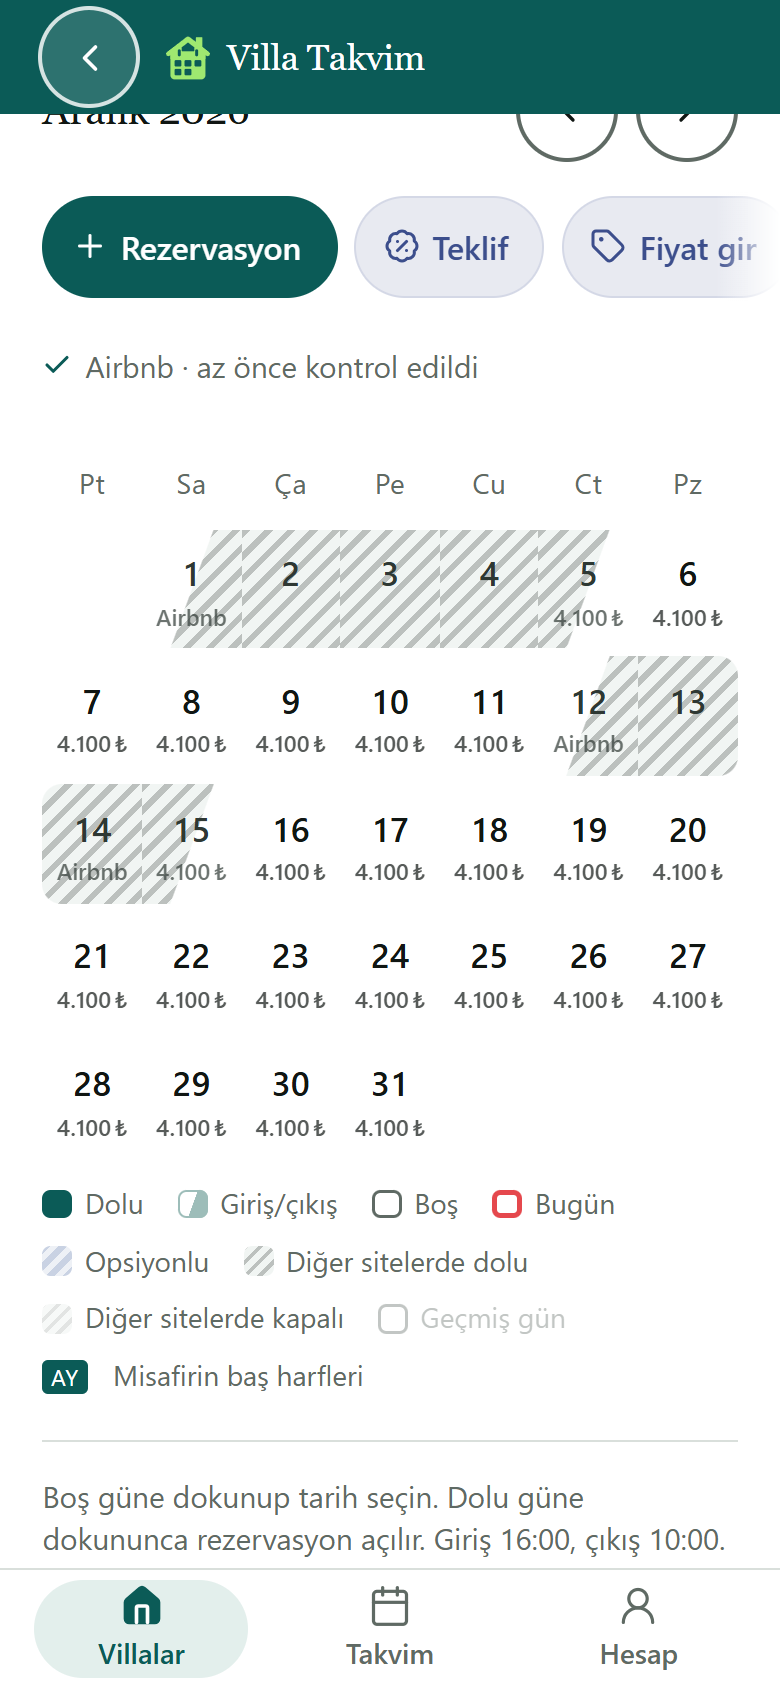
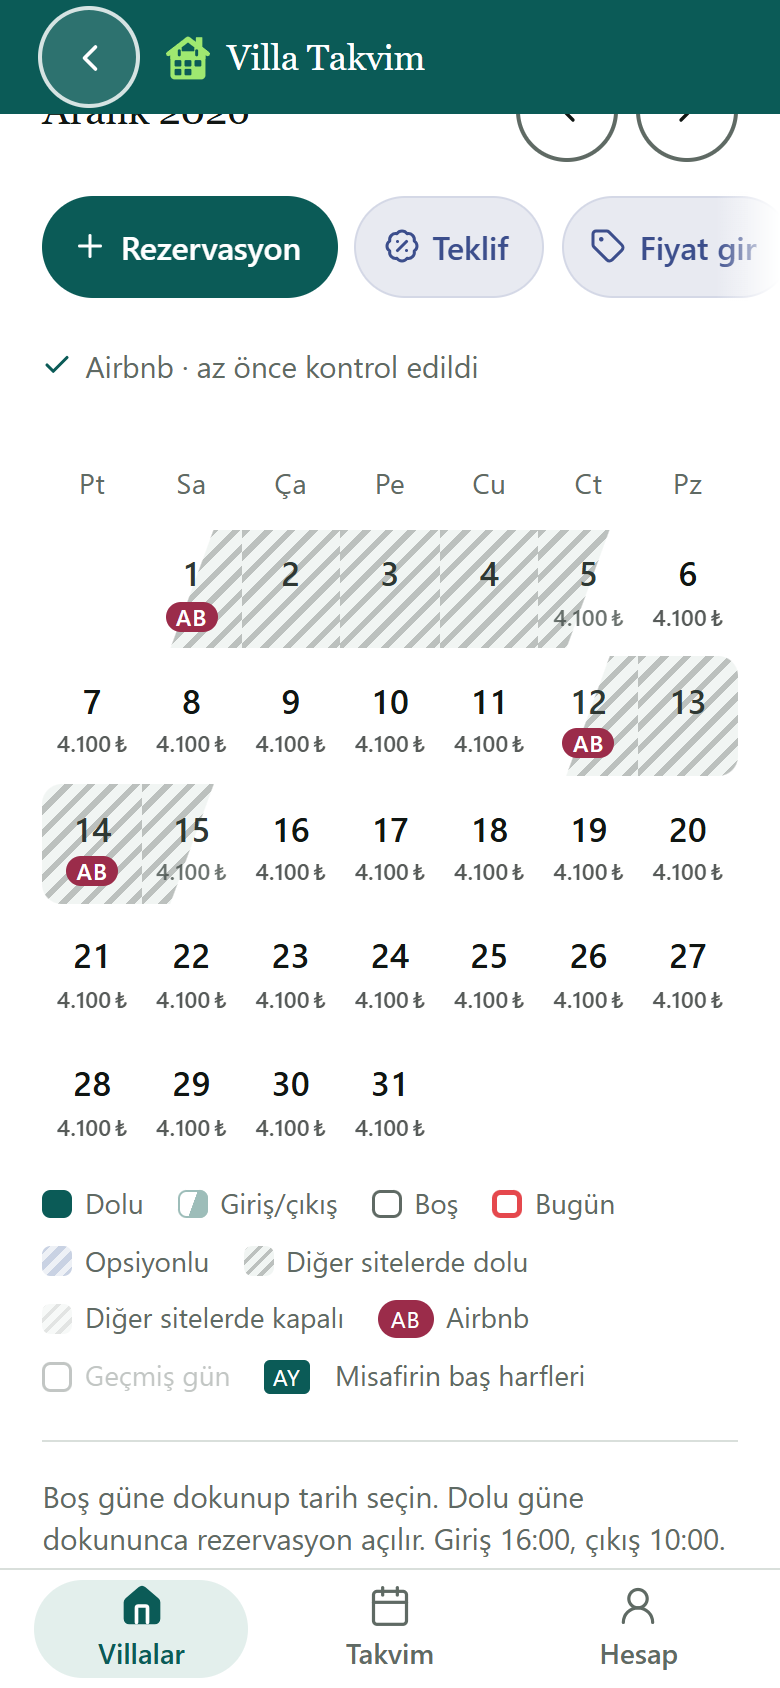
Görev 33.4: satışın nereden geldiği takvimde bir bakışta belli
- Kanal listesi tek yerde (KANAL: ad, kısa etiket, renk; 11 kanal, renkler PALET ve STIL.md'den, hepsi farklı, logo yok).
  Dış takvim siteleri de adını, etiketini ve rengini buradan alır; Tatilsepeti, Kalkan Villa, Villa Paketi, Tatilkentim eklendi.
- Dış blok: çizgili zeminde kanal renginde kısa etiket (AB, BK…); ilk günde hücre yetiyorsa tam ad (ölçülerek).
- Bizdeki rezervasyon (kaynak direkt değilse): giriş gününün köşesinde aynı etiket; listede adın yanında.
- Gösterge: yalnız o ay takvimde görünen kanallar.
- Rezervasyon detayı: başlığın altında "Airbnb'den" gibi, kanal renginde. Bakıcıda da görünür.

diff --git a/www/index.html b/www/index.html
@@ -1560,6 +1560,18 @@
   .kaynakKilit{display:flex; align-items:center; gap:.5rem; min-height:var(--dokunma-yukseklik); padding:0 1rem; border-radius:var(--kose);
     background:var(--soft); color:var(--ink); font-weight:600}
   .kaynakKilit svg.ik{color:var(--muted); flex:none}
+  /* 33.4 kanal hapı (kısa etiket, kanal renginde; renkler KANAL listesinde) */
+  .kanalHap{flex:none; display:inline-flex; align-items:center; justify-content:center; min-width:1.75rem; height:1.25rem; padding:0 .3125rem;
+    border-radius:99px; color:#fff; font-size:.6875rem; letter-spacing:.03em; line-height:1; white-space:nowrap}
+  .cell .fy.kanalEt{opacity:1; color:#fff; border-radius:99px; padding:0 .3125rem; max-width:calc(100% - 4px); overflow:hidden; letter-spacing:.03em}
+  .cell .rzKanal{position:absolute; top:2px; right:2px; padding:0 .1875rem; border-radius:99px; color:#fff; font-size:.5625rem; line-height:.8125rem;
+    letter-spacing:.02em; box-shadow:0 0 0 1px #fff; pointer-events:none}
+  .cell .rzKanal.ikili{right:1.125rem}
+  .ljKanallar{display:contents}
+  .lejant .ljKanal{gap:.375rem}
+  .lejant .ljKanal .kanalHap{height:1.125rem; min-width:1.625rem}
+  .rkKanal{margin-left:.375rem; vertical-align:middle}
+  .kanalSatir{display:flex; align-items:center; gap:.5rem; margin:.5rem 0 .75rem; font-size:.9375rem}
   .cell.dis .fy.disAd, .cell.disY .fy.disAd{font-size:.6875rem; max-width:100%; overflow:hidden; text-overflow:ellipsis; white-space:nowrap; padding:0 2px; color:#2E3833}
   .lj-dis{background:repeating-linear-gradient(135deg,rgba(95,106,100,.42) 0 2px,#F1F5F3 2px 5px)}
   .lj-disK{background:repeating-linear-gradient(135deg,rgba(95,106,100,.18) 0 2px,#F7F9F8 2px 5px)}
@@ -2098,6 +2110,7 @@
       <span><i class="lj-ops"></i>Opsiyonlu</span>
       <span class="ljDis hide"><i class="lj-dis"></i>Diğer sitelerde dolu</span>
       <span class="ljDis hide"><i class="lj-disK"></i>Diğer sitelerde kapalı</span>
+      <span class="ljKanallar" id="ljKanallar"></span>
       <span class="lj-gecmis"><i style="background:#fff;box-shadow:inset 0 0 0 1.5px var(--cerceve)"></i>Geçmiş gün</span>
       <span><b class="lj-harf" style="font-weight:400">AY</b>Misafirin baş harfleri</span>
     </div>
@@ -2569,19 +2582,70 @@
   // ================= 32 DIŞ TAKVİMLER (Airbnb, Booking, Vrbo, Villasepeti, diğer) =================
   // Sunucu tarafı (VERITABANI_GOREV32.sql + takvim-esitle / takvim-ver) yoksa DT.hazir=false: satır ve bölümler gizli kalır.
   var DT={hazir:null, bloklar:{}, durum:{}, cakismalar:[], son:{}};
+  // ---- 33.4 KANALLAR (rezervasyon nereden geldi): ad, kısa etiket, renk TEK YERDE. Renkler PALET'ten ve STIL.md'deki
+  // işlem renklerinden, her kanal farklı. Site logoları kullanılmaz. "den": rezervasyon detayındaki satır ("Airbnb'den").
+  var KANAL_SIRA=["direkt","airbnb","booking","vrbo","villasepeti","tatilsepeti","kalkanvilla","villapaketi","tatilkentim","tavsiye","diger"];
+  var KANAL={
+    direkt:{ad:"Direkt / WhatsApp", et:"DR", renk:"#0B5B57", den:"Direkt / WhatsApp"},
+    airbnb:{ad:"Airbnb", et:"AB", renk:"#9B2C4A", den:"Airbnb'den"},
+    booking:{ad:"Booking.com", et:"BK", renk:"#3C4E8C", den:"Booking.com'dan"},
+    vrbo:{ad:"Vrbo", et:"VR", renk:"#2E6E8E", den:"Vrbo'dan"},
+    villasepeti:{ad:"Villasepeti", et:"VS", renk:"#4F6B22", den:"Villasepeti'nden"},
+    tatilsepeti:{ad:"Tatilsepeti", et:"TS", renk:"#8C3A5E", den:"Tatilsepeti'nden"},
+    kalkanvilla:{ad:"Kalkan Villa", et:"KV", renk:"#7A4B8C", den:"Kalkan Villa'dan"},
+    villapaketi:{ad:"Villa Paketi", et:"VP", renk:"#4A5A7A", den:"Villa Paketi'nden"},
+    tatilkentim:{ad:"Tatilkentim", et:"TK", renk:"#2E3833", den:"Tatilkentim'den"},
+    tavsiye:{ad:"Tavsiye", et:"TV", renk:"#084743", den:"Tavsiyeyle"},
+    diger:{ad:"Diğer", et:"··", renk:"#5F6A64", den:"Diğer kanaldan"}
+  };
+  function kanal(k){ return KANAL[k]||null; }
+  function kanalHap(k,sinif){
+    var x=kanal(k)||KANAL.diger;
+    return '<span class="kanalHap'+(sinif?" "+sinif:"")+'" style="background:'+x.renk+'" title="'+esc(cev(x.ad))+'">'+esc(x.et)+"</span>";
+  }
+  // bir dış takvimin kanalı (takvim satırındaki kaynak)
+  function dtTakvimKanal(villaId,takvimId){
+    var t=dtTakvimleri(villaId).filter(function(x){ return x.id===takvimId; })[0];
+    return t && KANAL[t.kaynak] ? t.kaynak : "diger";
+  }
+  // rezervasyonun kanalı: kaynak alanı; boşsa ve bir dış satışa bağlıysa o sitenin kanalı; yoksa null (belirtilmemiş)
+  function rezKanal(v,r){
+    if(!r) return null;
+    if(r.kaynak && KANAL[r.kaynak]) return r.kaynak;
+    var b=v ? (DT.bloklar[v.id]||[]).filter(function(x){ return x.bagli===r.id; })[0] : null;
+    return b ? dtTakvimKanal(v.id,b.takvim) : null;
+  }
+  // takvim hücresinde tam ad sığar mı (hap: .6875rem yazı + iki yanda .3125rem boşluk; hücrenin iki yanında 2 px pay)
+  // (yazı boyu .cell .fy ile aynı: clamp(11px, .6875rem, 3.1vw); harf aralığı .03em; 1 px pay)
+  var KS={en:0, ctx:null, kok:16, boy:11};
+  function kanalOlcuHazirla(){
+    var g=document.getElementById("grid"); KS.en=g ? g.clientWidth/7 : 0;
+    KS.kok=parseFloat(getComputedStyle(document.documentElement).fontSize)||16;
+    KS.boy=Math.min(Math.max(11,KS.kok*0.6875),Math.max(11,window.innerWidth*0.031));
+    try{ if(!KS.ctx) KS.ctx=document.createElement("canvas").getContext("2d");
+      KS.ctx.font=KS.boy+"px "+getComputedStyle(g||document.body).fontFamily; }catch(e){ KS.ctx=null; }
+  }
+  function kanalSigar(ad){
+    if(!KS.en || !KS.ctx) return false;
+    return KS.ctx.measureText(ad).width + ad.length*KS.boy*0.03 + KS.kok*0.625 + 4 + 1 <= KS.en;
+  }
   var DT_KAYNAK={
-    airbnb:{ad:"Airbnb", harf:"A", renk:"#9B2C4A", ev:"https://www.airbnb.com/multicalendar",
+    airbnb:{ad:"Airbnb", ev:"https://www.airbnb.com/multicalendar",
       adimlar:["Airbnb'de “Takvim”i açın ve villanızı seçin.","“Müsaitlik” bölümünde “Takvimleri bağla”ya dokunun.",
                "“Başka bir web sitesine bağla”yı seçin.","Airbnb'nin verdiği linki kopyalayıp aşağıya yapıştırın."]},
-    booking:{ad:"Booking.com", kisa:"Booking", harf:"B", renk:"#3C4E8C", ev:"https://admin.booking.com/",
+    booking:{ad:"Booking.com", kisa:"Booking", ev:"https://admin.booking.com/",
       adimlar:["Booking.com ekstranetine (admin.booking.com) girin.","“Fiyatlar ve Müsaitlik” içinde “Takvimleri senkronize et”i açın.",
                "“Takvimi dışa aktar”ı seçin; seçenek sorulursa “Yalnız rezerve edilen günler”i seçin.","Verilen linki kopyalayıp aşağıya yapıştırın."]},
-    vrbo:{ad:"Vrbo", harf:"V", renk:"#2E6E8E", ev:"https://www.vrbo.com/p/calendar",
+    vrbo:{ad:"Vrbo", ev:"https://www.vrbo.com/p/calendar",
       adimlar:["Vrbo'da “Takvim”i açın ve villanızı seçin.","“İçe / dışa aktar” bölümünde “Takvimi dışa aktar”ı seçin.",
                "Verilen linki kopyalayıp aşağıya yapıştırın."]},
-    villasepeti:{ad:"Villasepeti", harf:"VS", renk:"#4F6B22", yerel:true},
-    diger:{ad:"Diğer site", kisa:"Diğer site", harf:"•", renk:"#5F6A64", yerel:true}
+    villasepeti:{ad:"Villasepeti", yerel:true},
+    tatilsepeti:{yerel:true}, kalkanvilla:{yerel:true}, villapaketi:{yerel:true}, tatilkentim:{yerel:true},
+    diger:{ad:"Diğer site", kisa:"Diğer site", yerel:true}
   };
+  // 33.4: sitelerin adı, kısa etiketi ve rengi kanal listesinden
+  Object.keys(DT_KAYNAK).forEach(function(k){ var x=KANAL[k]; DT_KAYNAK[k].ad=DT_KAYNAK[k].ad||x.ad; DT_KAYNAK[k].harf=x.et; DT_KAYNAK[k].renk=x.renk; });
+  var DT_SITELER=["airbnb","booking","vrbo","villasepeti","tatilsepeti","kalkanvilla","villapaketi","tatilkentim","diger"];
   function dtKaynak(k){ return DT_KAYNAK[k]||DT_KAYNAK.diger; }
   function dtKisaAd(k){ var x=dtKaynak(k); return x.kisa||x.ad; }
   function dtRozet(k){ var x=dtKaynak(k); return '<span class="dtRozet" style="background:'+x.renk+'" aria-hidden="true">'+esc(x.harf)+"</span>"; }
@@ -2669,11 +2733,6 @@
   function dtAraliktaki(v,bas,bit,turler){
     var rz={}; (v.rez||[]).forEach(function(r){ rz[r.id]=1; });
     return (DT.bloklar[v.id]||[]).filter(function(b){ return !(b.bagli && rz[b.bagli]) && b.bas<bit && bas<b.bit && (!turler || turler.indexOf(b.tur)>=0); });
-  }
-  // bizdeki rezervasyon bir dış bloğa bağlıysa sitenin adı ("Airbnb")
-  function dtRezKaynak(v,r){
-    var b=(DT.bloklar[v.id]||[]).filter(function(x){ return x.bagli===r.id; })[0];
-    return b ? dtTakvimAd(v.id,b.takvim) : "";
   }
   // "Airbnb'de", "Vrbo'da", "Booking'de" (bulunma eki)
   function ekDe(ad){
@@ -3164,7 +3223,7 @@
   function dtBagla(v){
     var o=perde('<div class="head"><h2>'+esc(cev("Site takvimi bağla"))+"</h2>"+kapatBtn()+"</div>"+
       '<div class="sm muted" style="margin:.5rem 0 0">'+esc(cev("Takvim hangi siteden gelecek?"))+"</div>"+
-      '<div class="dtKaynaklar" id="dtKaynaklar">'+["airbnb","booking","vrbo","villasepeti","diger"].map(function(k){
+      '<div class="dtKaynaklar" id="dtKaynaklar">'+DT_SITELER.map(function(k){
         return '<button class="dtKaynakBtn" data-k="'+k+'">'+dtRozet(k)+"<span>"+esc(cev(dtKaynak(k).ad))+"</span></button>"; }).join("")+"</div>"+
       '<button class="big ghost" id="dtKaynakGeri" style="margin-top:1.25rem">'+esc(cev("Vazgeç"))+"</button>");
     o.querySelector(".sheet").dataset.adim="kaynak";
@@ -5532,7 +5591,7 @@
                          :'<span class="tarihIk">'+ikon("giris",{boy:15,sinif:"gir"})+esc(kisa(r.start))+'<span class="fiil">'+esc(cev("girecek"))+"</span></span> ")+
                  '<span class="tarihIk">'+ikon("cikis",{boy:15,sinif:"cik"})+esc(kisa(r.end))+'<span class="fiil">'+esc(cev("çıkacak"))+"</span></span>";
     return '<button class="row rezKart'+(dtCakisanRez(r.id)?" cakisma":"")+(yeniOlabilir?yeniCls(r.id):"")+'" data-id="'+r.id+'">'+harfDaire(r)+
-      '<span class="rkMetin"><span class="rkAd">'+esc(r.guest)+(dtRezKaynak(v,r)?'<span class="dtEt">'+esc(dtRezKaynak(v,r))+"</span>":"")+
+      '<span class="rkMetin"><span class="rkAd">'+esc(r.guest)+((rezKanal(v,r)||"direkt")!=="direkt"?kanalHap(rezKanal(v,r),"rkKanal"):"")+
         (dtCakisanRez(r.id)?'<span class="rkUyari" title="'+esc(cev("Çift satış riski"))+'">'+ikon("uyari-ucgen",{boy:15})+"</span>":"")+
         (r.disKontrol==="bekliyor"?'<span class="rkSaat" title="'+esc(cev("Diğer siteler kontrol ediliyor"))+'">'+ikon("saat",{boy:15})+"</span>":"")+'</span><span class="rkAlt">'+tarihler+
       (tutarYok?' <span class="eksikYazi">'+esc(cev("· tutar girilmedi"))+"</span>":"")+
@@ -5613,6 +5672,7 @@
     var lead=(new Date(y,m,1).getDay()+6)%7;
     var tk=fmt(today);
     var h="", hucreler=[], DG=dtGeceHaritasi(v);
+    kanalOlcuHazirla();
     for(var j=0;j<lead;j++) h+="<div></div>";
     for(var d=1; d<=adet; d++){
       var date=new Date(y,m,d), k=fmt(date), o2=gun(k);
@@ -5673,14 +5733,18 @@
       if(ckR) cls+=" cakisma";
       var ckIk = (ak && ak.start===k && dtCakisanRez(ak.id)) ? '<span class="rzUyari">'+ikon("uyari-ucgen",{boy:12,kalinlik:2.25})+"</span>" : "";
       var saatIk = ckIk+((ak && ak.start===k && ak.disKontrol==="bekliyor") ? '<span class="rzSaat" aria-label="'+esc(cev("Diğer siteler kontrol ediliyor"))+'">'+ikon("saat",{boy:12,kalinlik:2.25})+"</span>" : "");
+      // 33.4: bizdeki rezervasyonun giriş gününün köşesinde kanal hapı (direkt değilse)
+      var rzK=(ak && ak.start===k) ? rezKanal(v,ak) : null;
+      if(rzK && rzK!=="direkt") saatIk+='<span class="rzKanal'+(saatIk?" ikili":"")+'" style="background:'+kanal(rzK).renk+'" title="'+esc(cev(kanal(rzK).ad))+'">'+esc(kanal(rzK).et)+"</span>";
       var etiket = saatIk+(ak ? '<span class="fy bh">'+esc(basHarf(ak.guest))+"</span>"
-                 : (disB ? '<span class="fy disAd">'+((rl||k===disB.bas)?esc(disB.tur==="kapali"?cev("kapalı"):dtTakvimAd(v.id,disB.takvim)):"")+"</span>"
+                 : (disB ? dtHucreEt(v,disB,k,rl)
                  : '<span class="fy">'+(fi?kisaFiyat(fi):"")+"</span>"));
       h+='<button class="'+cls+'" data-k="'+k+'" style="'+st+'"><span class="gn">'+d+"</span>"+etiket+"</button>";
       hucreler.push({k:k, cls:cls, st:st, ic:'<span class="gn">'+d+"</span>"+etiket});
     }
     izgaraYaz(h,hucreler,lead);
     Array.prototype.forEach.call(document.querySelectorAll(".lejant .ljDis"),function(x){ x.classList.toggle("hide",!(DT.bloklar[v.id]||[]).length); });
+    ljKanalCiz(v,fmt(new Date(y,m,1)),fmt(new Date(y,m+1,1)));
 
     var hint=document.getElementById("hint");
     // 26.1: ipucu yalnız değişince yazılır (aynı yazıyı her dokunuşta yeniden yazmak sayfanın yerleşimini bozuyordu)
@@ -5693,6 +5757,22 @@
     // 18.3: seçim işlemleri altta (başparmak bölgesi), alt menünün hemen üstünde kayan panel
     document.getElementById("adimSerit").classList.add("hide");
     secPanelCiz(v);
+  }
+  // 33.4: dış bloğun etiketi: satış ise kanal renginde kısa etiket (bloğun ilk günü, hücre yetiyorsa tam ad); kapalı ise "kapalı"
+  function dtHucreEt(v,b,k,satirBasi){
+    if(!(satirBasi || k===b.bas)) return '<span class="fy"></span>';
+    if(b.tur==="kapali") return '<span class="fy disAd">'+esc(cev("kapalı"))+"</span>";
+    var x=kanal(dtTakvimKanal(v.id,b.takvim)), ad=dtTakvimAd(v.id,b.takvim), tam=k===b.bas && kanalSigar(ad);
+    return '<span class="fy kanalEt'+(tam?" tam":"")+'" style="background:'+x.renk+'" title="'+esc(ad)+'">'+esc(tam?ad:x.et)+"</span>";
+  }
+  // 33.4: göstergede yalnız bu ay takvimde görünen kanallar
+  function ljKanalCiz(v,ayBas,ayBit){
+    var el=document.getElementById("ljKanallar"); if(!el) return;
+    var var0={}, rz={};
+    (v.rez||[]).forEach(function(r){ rz[r.id]=1; var k=rezKanal(v,r); if(k && k!=="direkt" && r.start<ayBit && ayBas<r.end) var0[k]=1; });
+    (DT.bloklar[v.id]||[]).forEach(function(b){ if(b.tur!=="kapali" && !(b.bagli && rz[b.bagli]) && b.bas<ayBit && ayBas<b.bit) var0[dtTakvimKanal(v.id,b.takvim)]=1; });
+    var h=KANAL_SIRA.filter(function(k){ return var0[k]; }).map(function(k){ return '<span class="ljKanal">'+kanalHap(k)+esc(cev(KANAL[k].ad))+"</span>"; }).join("");
+    if(el._h!==h){ el.innerHTML=h; el._h=h; }
   }
   // 26.1: gün seçiminde ızgara baştan kurulmaz; aynı ay çiziliyse yalnız sınıfı / zemini / içeriği değişen hücreler
   // güncellenir (eskiden her dokunuşta 30+ düğme silinip yeniden oluşturuluyor, sonra yerleşim zorla hesaplanıyordu)
@@ -7698,8 +7778,10 @@
   function detay(r){
     perde('<div class="head">'+
       '<div class="sm muted" style="display:flex;align-items:center;gap:.5rem;margin-bottom:.25rem;white-space:nowrap;flex:none">'+
-        '<span class="dot" style="background:'+r.color+'"></span>'+esc(cev(gece(r)+" gece"))+(dtRezKaynak(aktif(),r)?'<span class="dtEt">'+esc(dtRezKaynak(aktif(),r))+"</span>":"")+"</div>"+
+        '<span class="dot" style="background:'+r.color+'"></span>'+esc(cev(gece(r)+" gece"))+"</div>"+
       "<h3>"+esc(r.guest)+"</h3>"+kapatBtn()+"</div>"+
+      // 33.4: başlığın altında kanal ("Airbnb'den"), rengiyle
+      (rezKanal(aktif(),r)?'<div class="kanalSatir" id="d-kanal">'+kanalHap(rezKanal(aktif(),r))+'<span style="color:'+kanal(rezKanal(aktif(),r)).renk+'">'+esc(cev(kanal(rezKanal(aktif(),r)).den))+"</span></div>":"")+
       // 17.4: en üstte "Ödemeyi al ve misafiri yerleştir" / "Misafir çıktı mı?"
       akisBlok(aktif(),r)+
       '<div class="cols">'+

diff --git a/www/dil.js b/www/dil.js
@@ -1203,7 +1203,20 @@
     "Nereden geldi?":"Where did it come from?",
     "Yazdıklarınız kaydedilmedi, çıkılsın mı?":"What you typed hasn't been saved. Leave anyway?",
     "Yazmaya devam et":"Keep editing",
-    "Çık":"Leave"
+    "Çık":"Leave",
+    "Direkt / WhatsApp":"Direct / WhatsApp",
+    "Booking.com":"Booking.com",
+    "Tavsiye":"Referral",
+    "Airbnb'den":"From Airbnb",
+    "Booking.com'dan":"From Booking.com",
+    "Vrbo'dan":"From Vrbo",
+    "Villasepeti'nden":"From Villasepeti",
+    "Tatilsepeti'nden":"From Tatilsepeti",
+    "Kalkan Villa'dan":"From Kalkan Villa",
+    "Villa Paketi'nden":"From Villa Paketi",
+    "Tatilkentim'den":"From Tatilkentim",
+    "Tavsiyeyle":"By referral",
+    "Diğer kanaldan":"From another channel"
   };
 
   // ---------- kalıplı metinler ----------

diff --git a/www/sw.js b/www/sw.js
@@ -3,7 +3,7 @@
 
 // Sürüm: her yayında artırılır. Dosya değişince telefonlar yeni servisi kurar;
 // açılışta eski sürümlerden kalan önbellekler silinir, böylece eski ekran kalmaz.
-var SURUM = "vt-2026-11-20-gorev33c";
+var SURUM = "vt-2026-11-20-gorev33d";
 
 self.addEventListener("install", function (e) {
   self.skipWaiting();
